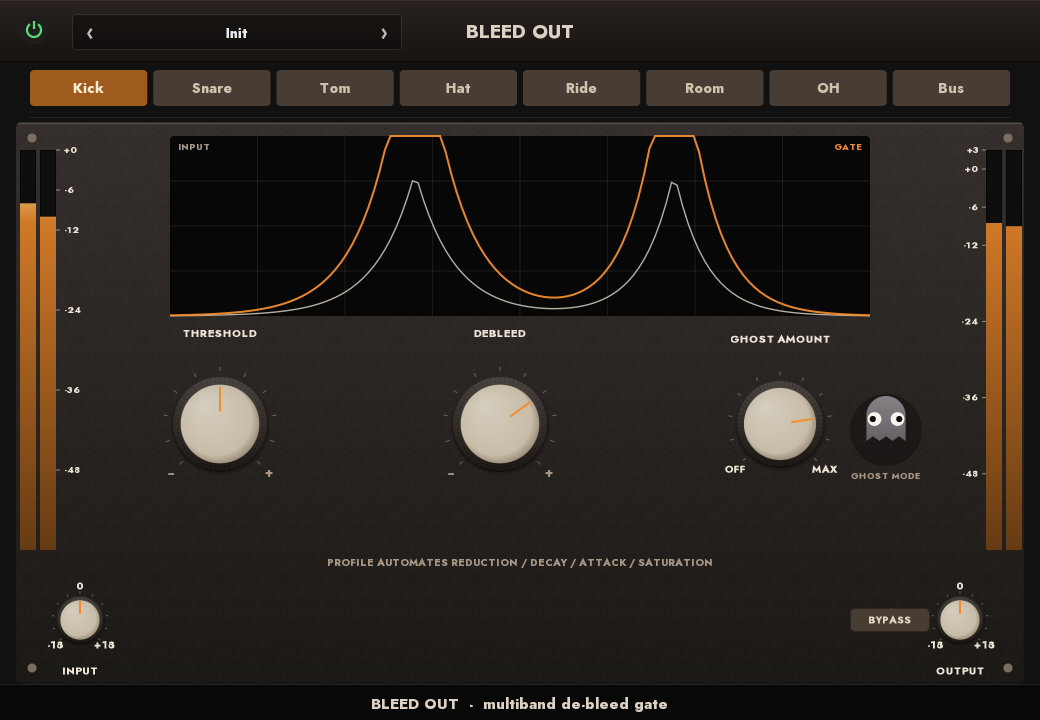
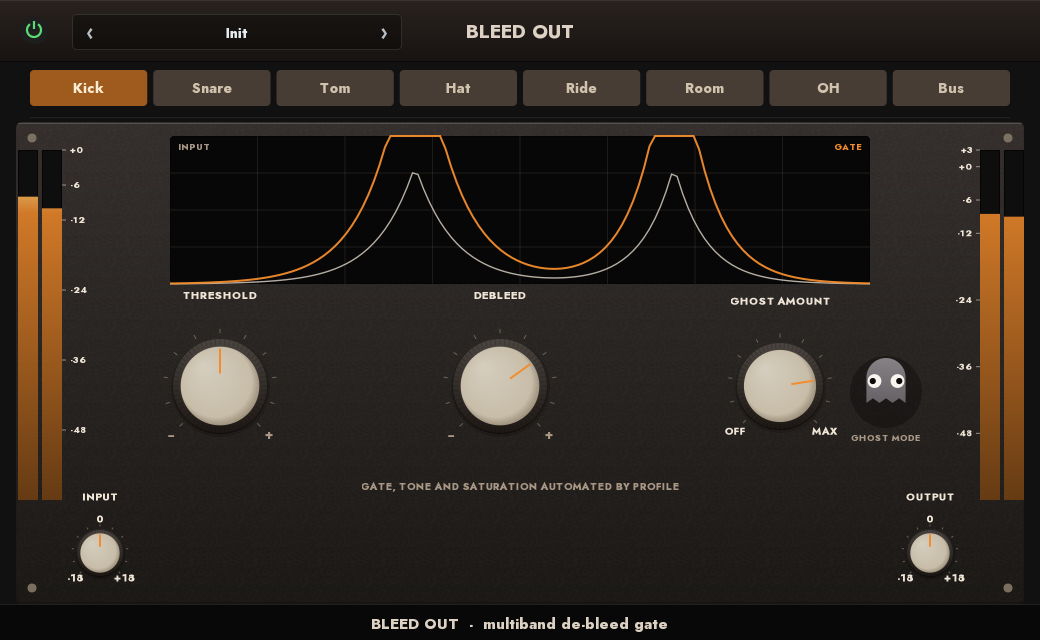
De-bleed during the hit, 1040x640 panel and wider meters

diff --git a/src/ui/panel.cpp b/src/ui/panel.cpp
@@ -262,40 +262,25 @@ void Panel::layout(const Shared& shared, const PanelState& state) {
     widgets_.push_back(k);
   };
 
-  auto pill = [&](uint32_t param, double x, double y, double w, double h,
-                  const char* label) {
-    Widget b{};
-    b.kind = Kind::Pill;
-    b.param = param;
-    b.x = x;
-    b.y = y;
-    b.w = w;
-    b.h = h;
-    b.value = 1.0;
-    b.label = label;
-    widgets_.push_back(b);
-  };
-
   // Only the three controls that matter: Threshold, DeBleed and Ghost.
-  knob(P_THRESHOLD, 220, 424, 48, "THRESHOLD");
-  knob(P_DEBLEED, 500, 424, 48, "DEBLEED");
-  knob(P_GHOST, 780, 424, 44, "GHOST AMOUNT", sc(kScaleGhost));
+  knob(P_THRESHOLD, 220, 386, 48, "THRESHOLD");
+  knob(P_DEBLEED, 500, 386, 48, "DEBLEED");
+  knob(P_GHOST, 780, 386, 44, "GHOST AMOUNT", sc(kScaleGhost));
   {
     Widget g{};
     g.kind = Kind::Ghost;
     g.param = P_GHOST_MODE;
     g.x = 850;
-    g.y = 394;
+    g.y = 356;
     g.w = 72;
     g.h = 72;
     g.label = "GHOST MODE";
     widgets_.push_back(g);
   }
 
-  // Global.
-  pill(P_BYPASS, 850, 608, 80, 24, "BYPASS");
-  knob(P_INPUT, 80, 620, 24, "INPUT", sc(kScaleDb18), true);
-  knob(P_OUTPUT, 960, 620, 24, "OUTPUT", sc(kScaleDb18), true);
+  // Global.  Power is the bypass; the bottom corners are just trim.
+  knob(P_INPUT, 100, 553, 24, "INPUT", sc(kScaleDb18));
+  knob(P_OUTPUT, 930, 553, 24, "OUTPUT", sc(kScaleDb18));
 }
 
 bool Panel::hitWidget(const Widget& w, double x, double y) const {
@@ -468,9 +453,9 @@ void Panel::draw(cairo_t* cr, Shared& shared, const PanelState& state) {
   drawHeader(cr, shared, state);
   drawBody(cr, drum);
   drawScope(cr, shared, state);
-  drawLevelMeter(cr, 20, 150, 16, 400, state.inLevelL, state.inLevelR, -60.0,
+  drawLevelMeter(cr, 18, 150, 20, 350, state.inLevelL, state.inLevelR, -60.0,
                  0.0, true);
-  drawLevelMeter(cr, 986, 150, 16, 400, state.outLevelL, state.outLevelR,
+  drawLevelMeter(cr, 980, 150, 20, 350, state.outLevelL, state.outLevelR,
                  -60.0, 3.0, false);
 
   for (const Widget& w : widgets_) {
@@ -484,7 +469,7 @@ void Panel::draw(cairo_t* cr, Shared& shared, const PanelState& state) {
     const std::string value =
         std::string(kParamSpecs[p].name) + "   " +
         formatParamValue(shared, p, shared.get(p));
-    text(cr, value.c_str(), kPanelWidth * 0.5, 709, 15, 1, 0.98, 0.80, 0.32);
+    text(cr, value.c_str(), kPanelWidth * 0.5, 629, 15, 1, 0.98, 0.80, 0.32);
   }
 
   if (editing_) drawTextEntry(cr, shared);
@@ -524,12 +509,12 @@ void Panel::drawHeader(cairo_t* cr, const Shared& shared,
 
 void Panel::drawBody(cairo_t* cr, int drum) const {
   const Skin skin = skinFor(drum);
-  cairo_pattern_t* pat = cairo_pattern_create_linear(0, 122, 0, 684);
+  cairo_pattern_t* pat = cairo_pattern_create_linear(0, 122, 0, 604);
   cairo_pattern_add_color_stop_rgb(pat, 0.0, skin.bodyTop.r, skin.bodyTop.g,
                                    skin.bodyTop.b);
   cairo_pattern_add_color_stop_rgb(pat, 1.0, skin.bodyBottom.r,
                                    skin.bodyBottom.g, skin.bodyBottom.b);
-  roundRect(cr, 16, 122, 1008, 562, 6);
+  roundRect(cr, 16, 122, 1008, 482, 6);
   cairo_set_source(cr, pat);
   cairo_fill(cr);
   cairo_pattern_destroy(pat);
@@ -538,7 +523,7 @@ void Panel::drawBody(cairo_t* cr, int drum) const {
     cairo_pattern_t* grain = cairo_pattern_create_for_surface(grain_);
     cairo_pattern_set_extend(grain, CAIRO_EXTEND_REPEAT);
     cairo_save(cr);
-    cairo_rectangle(cr, 17, 123, 1006, 560);
+    cairo_rectangle(cr, 17, 123, 1006, 480);
     cairo_clip(cr);
     cairo_set_source(cr, grain);
     cairo_paint_with_alpha(cr, 0.018);
@@ -552,12 +537,12 @@ void Panel::drawBody(cairo_t* cr, int drum) const {
   cairo_line_to(cr, 1022, 123.5);
   cairo_stroke(cr);
   setRgb(cr, {0.0, 0.0, 0.0}, 0.22);
-  cairo_move_to(cr, 18, 682.5);
-  cairo_line_to(cr, 1022, 682.5);
+  cairo_move_to(cr, 18, 602.5);
+  cairo_line_to(cr, 1022, 602.5);
   cairo_stroke(cr);
 
   for (double sx : {32.0, 1008.0}) {
-    for (double sy : {138.0, 668.0}) {
+    for (double sy : {138.0, 588.0}) {
       cairo_arc(cr, sx, sy, 4.5, 0, 2 * kPi);
       setRgb(cr, skin.screw, 0.9);
       cairo_fill(cr);
@@ -575,26 +560,26 @@ void Panel::drawBody(cairo_t* cr, int drum) const {
   cairo_stroke(cr);
 
   // Explain why there are only three knobs: the profile automates the rest.
-  text(cr, "PROFILE AUTOMATES REDUCTION / DECAY / ATTACK / SATURATION",
-       kPanelWidth * 0.5, 566, 10, 1, skin.legendDim.r, skin.legendDim.g,
+  text(cr, "GATE, TONE AND SATURATION AUTOMATED BY PROFILE",
+       kPanelWidth * 0.5, 490, 10, 1, skin.legendDim.r, skin.legendDim.g,
        skin.legendDim.b);
 
   // Footer.
   cairo_set_source_rgba(cr, 0.0, 0.0, 0.0, 0.55);
-  cairo_rectangle(cr, 0, 684, kPanelWidth, 36);
+  cairo_rectangle(cr, 0, 604, kPanelWidth, 36);
   cairo_fill(cr);
   cairo_set_source_rgba(cr, 1.0, 1.0, 1.0, 0.10);
-  cairo_move_to(cr, 0, 684.5);
-  cairo_line_to(cr, kPanelWidth, 684.5);
+  cairo_move_to(cr, 0, 604.5);
+  cairo_line_to(cr, kPanelWidth, 604.5);
   cairo_stroke(cr);
-  text(cr, skin.caption, kPanelWidth * 0.5, 709, 15, 1, 0.86, 0.82, 0.76);
+  text(cr, skin.caption, kPanelWidth * 0.5, 629, 15, 1, 0.86, 0.82, 0.76);
 }
 
 void Panel::drawScope(cairo_t* cr, const Shared& shared,
                       const PanelState& state) const {
   const int drum = static_cast<int>(shared.get(P_DRUM) + 0.5);
   const Skin skin = skinFor(drum);
-  const double x = 170, y = 136, w = 700, h = 180;
+  const double x = 170, y = 136, w = 700, h = 148;
 
   roundRect(cr, x, y, w, h, 4);
   cairo_set_source_rgba(cr, 0.025, 0.027, 0.030, 0.98);

diff --git a/src/dsp/bleedout.hpp b/src/dsp/bleedout.hpp
@@ -113,7 +113,8 @@ public:
     ghostHold_ = 0;
     midiGhostHold_ = 0;
     gateOpen_ = false;
-    bodyOpen_ = false;
+    bodyWasHot_ = false;
+    mainWasHot_ = false;
     envDet_ = 0.0f;
     for (int i = 0; i < 3; ++i) {
       bandFast_[i] = 0.0f;
@@ -185,17 +186,27 @@ public:
       gateEnv_ += (target ? (1.0f - gateEnv_) : (0.0f - gateEnv_)) *
                   (target ? attackCoef_ : releaseCoef_);
 
-      // Body gate for the high-band sidechain.  It deliberately uses its own
-      // short hold/release: the high band should follow the drum's attack and
-      // then close quickly instead of riding the main gate's long tail.
+      // De-bleed sidechain.  It is one-shot, not a level gate: each drum hit
+      // opens the high band for the attack, then the band closes again even
+      // while the body is still ringing.  That is what removes cymbal wash
+      // *during* the hit instead of only between hits.  The main gate edge is
+      // a backup trigger for bright drums whose body detector is weak.
+      if (det > threshold_ && !mainWasHot_) {
+        mainWasHot_ = true;
+        bodyHold_ = std::max(bodyHold_, hbHoldSamples_);
+      } else if (det < closeThreshold_) {
+        mainWasHot_ = false;
+      }
       if (bodyDet > bodyThreshold_) {
-        bodyOpen_ = true;
-        bodyHold_ = hbHoldSamples_;
+        if (!bodyWasHot_) {
+          bodyWasHot_ = true;
+          bodyHold_ = hbHoldSamples_;
+        }
       } else if (bodyDet < closeBodyThreshold_) {
-        bodyOpen_ = false;
+        bodyWasHot_ = false;
       }
       if (bodyHold_ > 0) --bodyHold_;
-      const bool bodyTarget = controls_.gateOn && (bodyOpen_ || bodyHold_ > 0);
+      const bool bodyTarget = controls_.gateOn && (bodyHold_ > 0);
       bodyEnv_ += (bodyTarget ? (1.0f - bodyEnv_) : (0.0f - bodyEnv_)) *
                   (bodyTarget ? hbAttackCoef_ : hbReleaseCoef_);
 
@@ -325,7 +336,8 @@ private:
   bool gateOpen_ = false;
   float gateEnv_ = 0.0f;
 
-  bool bodyOpen_ = false;
+  bool bodyWasHot_ = false;
+  bool mainWasHot_ = false;
   int bodyHold_ = 0;
   float bodyEnv_ = 0.0f;
 

diff --git a/test/test_dsp.cpp b/test/test_dsp.cpp
@@ -206,20 +206,29 @@ int main() {
 
     const int qa = static_cast<int>(kSr * 0.36f);
     const int qb = static_cast<int>(kSr * 0.56f);
+    const int aa = static_cast<int>(kSr * 0.100f);  // first 6 ms: the attack
+    const int ab = static_cast<int>(kSr * 0.106f);
+    const int sa = static_cast<int>(kSr * 0.125f);  // 25-55 ms: the sustain
+    const int sb = static_cast<int>(kSr * 0.155f);
     const int ha = static_cast<int>(kSr * 0.105f);
     const int hb = static_cast<int>(kSr * 0.145f);
     const double bleedOff = toneLevel(rOff.l, qa, qb, 8000.0);
     const double bleedOn = toneLevel(rOn.l, qa, qb, 8000.0);
     const double bodyOff = toneLevel(rOff.l, ha, hb, 200.0);
     const double bodyOn = toneLevel(rOn.l, ha, hb, 200.0);
-    const double attackOff = toneLevel(rOff.l, ha, hb, 8000.0);
-    const double attackOn = toneLevel(rOn.l, ha, hb, 8000.0);
+    const double attackOff = toneLevel(rOff.l, aa, ab, 8000.0);
+    const double attackOn = toneLevel(rOn.l, aa, ab, 8000.0);
+    const double sustainOff = toneLevel(rOff.l, sa, sb, 8000.0);
+    const double sustainOn = toneLevel(rOn.l, sa, sb, 8000.0);
     std::printf(
-        "  debleed: bleed %.1f -> %.1f dB, body %.1f -> %.1f dB, attack %.1f -> %.1f dB\n",
+        "  debleed: bleed %.1f -> %.1f dB, body %.1f -> %.1f dB, "
+        "attack %.1f -> %.1f dB, sustain %.1f -> %.1f dB\n",
         db(bleedOff), db(bleedOn), db(bodyOff), db(bodyOn), db(attackOff),
-        db(attackOn));
+        db(attackOn), db(sustainOff), db(sustainOn));
     check(db(bleedOff) - db(bleedOn) > 20.0,
           "DeBleed 100 cuts cymbal bleed by more than 20 dB between hits");
+    check(db(sustainOff) - db(sustainOn) > 8.0,
+          "DeBleed removes cymbal wash during the hit after the attack");
     check(std::fabs(db(bodyOff) - db(bodyOn)) < 1.0,
           "DeBleed leaves the drum body untouched");
     check(std::fabs(db(attackOff) - db(attackOn)) < 1.5,

diff --git a/test/test_geometry.cpp b/test/test_geometry.cpp
@@ -40,17 +40,17 @@ int main() {
     const double scale = static_cast<double>(s.width) / kPanelWidth;
     bounded = bounded && scale >= kMinUiScale - 1e-9 && scale <= kMaxUiScale + 1e-9;
   }
-  check(allAspect, "any requested size snaps to exactly 1040:720");
+  check(allAspect, "any requested size snaps to exactly 1040:640");
   check(idempotent, "snapping a valid size changes nothing");
   check(bounded, "snapped scale stays within the allowed range");
 
-  check(snapSize(100, 100).width == 520 && snapSize(100, 100).height == 360,
+  check(snapSize(100, 100).width == 520 && snapSize(100, 100).height == 320,
         "tiny request clamps to the minimum (0.5x)");
-  check(snapSize(9000, 9000).width == 2600 && snapSize(9000, 9000).height == 1800,
+  check(snapSize(9000, 9000).width == 2600 && snapSize(9000, 9000).height == 1600,
         "huge request clamps to the maximum (2.5x)");
-  check(snapSize(1560, 900).width == 1560 && snapSize(1560, 900).height == 1080,
+  check(snapSize(1560, 900).width == 1560 && snapSize(1560, 900).height == 960,
         "width drag wins over a mismatched height");
-  check(snapSize(1040, 720).width == 1040 && snapSize(1040, 720).height == 720,
+  check(snapSize(1040, 640).width == 1040 && snapSize(1040, 640).height == 640,
         "nominal size is unchanged");
 
   std::printf("%d failure(s)\n", gFailures);

diff --git a/src/dsp/controls.hpp b/src/dsp/controls.hpp
@@ -42,8 +42,8 @@ inline constexpr Profile kProfiles[8] = {
     {"Kick", 180.0f, 2000.0f, 0.80f, 0.15f, 0.05f, -30.0f, 70.0f,
      8.0f, 30.0f, 60.0f, 0.5f, 5.0f, 80.0f, 6.0f, 1.0f, -1.0f, 0.0f,
      10.0f, 0.0f, 0.0f, 20.0f},
-    {"Snare", 300.0f, 4000.0f, 0.25f, 0.60f, 0.15f, -32.0f, 80.0f,
-     10.0f, 35.0f, 65.0f, 0.8f, 12.0f, 110.0f, 6.0f, -0.5f, 1.0f, 0.5f,
+    {"Snare", 300.0f, 5000.0f, 0.25f, 0.60f, 0.15f, -32.0f, 80.0f,
+     4.0f, 16.0f, 65.0f, 0.8f, 12.0f, 110.0f, 6.0f, -0.5f, 1.0f, 0.5f,
      0.0f, 10.0f, 0.0f, 25.0f},
     {"Tom", 350.0f, 3000.0f, 0.60f, 0.30f, 0.10f, -32.0f, 60.0f,
      10.0f, 35.0f, 45.0f, 1.0f, 15.0f, 160.0f, 8.0f, 1.0f, 0.0f, 0.0f,

diff --git a/src/ui/geometry.hpp b/src/ui/geometry.hpp
@@ -12,7 +12,7 @@ namespace bleed {
 
 // The editor is laid out once in logical units (kPanelWidth x kPanelHeight)
 // and scaled uniformly.  Scales move in steps of 1/80, because 1040 = 13 * 80
-// and 720 = 9 * 80: every step gives an exact 1040:720 window, with no rounding
+// and 640 = 8 * 80: every step gives an exact 1040:640 window, with no rounding
 // drift between width and height.
 constexpr int kScaleSteps = 80;
 constexpr int kMinScaleStep = 40;   // 0.5x

diff --git a/test/test_layout.cpp b/test/test_layout.cpp
@@ -20,7 +20,7 @@ void check(bool ok, const char* what) {
 constexpr double kPlateX = 16.0;
 constexpr double kPlateY = 122.0;
 constexpr double kPlateW = 1008.0;
-constexpr double kPlateH = 562.0;
+constexpr double kPlateH = 482.0;
 
 bool overlaps(const Panel::WidgetRect& a, const Panel::WidgetRect& b) {
   const double ax2 = a.x + a.w, ay2 = a.y + a.h;

diff --git a/test/test_panel.cpp b/test/test_panel.cpp
@@ -44,7 +44,7 @@ int main() {
           "Snare profile applies its DeBleed default");
 
     // Ghost icon toggles ghost mode.
-    panel.pointerDown(shared, state, 886, 430, false);
+    panel.pointerDown(shared, state, 886, 392, false);
     panel.pointerUp();
     check(shared.get(P_GHOST_MODE) == 1.0, "ghost icon enables ghost mode");
 

diff --git a/src/ui/panel.hpp b/src/ui/panel.hpp
@@ -12,7 +12,7 @@
 namespace bleed {
 
 constexpr int kPanelWidth = 1040;
-constexpr int kPanelHeight = 720;
+constexpr int kPanelHeight = 640;
 
 struct PanelState {
   int presetIndex = -1;

diff --git a/README.md b/README.md
@@ -42,24 +42,27 @@ The high band (cymbals, hi-hat, snare wires) is gated **from the drum body**,
 not from the cymbal wash itself. This is the same idea as the Nolly/FabFilter
 Saturn trick and the Black Salt Audio Silencer de-bleeding circuit: the low/mid
 body detector opens the high band for the attack, then the high band closes
-quickly while the body has decayed. DeBleed sets how far down that high band goes
-between hits.
+again **even while the body is still ringing**. DeBleed sets how far down that
+high band goes.
 
-The de-bleed sidechain has its own short hold/release (10/35 ms on Snare), so it
-does not ride the main gate's long tail. At DeBleed 100 the high band is 48 dB
-down between hits; at DeBleed 0 it is untouched.
+The de-bleed sidechain is one-shot, with its own short hold/release (4/16 ms on
+Snare), so it does not ride the main gate's long tail. At DeBleed 100 the high
+band is 48 dB down once the attack window closes; at DeBleed 0 it is untouched.
+The Snare crossover sits at 5 kHz, so the 2–5 kHz presence stays in the mid band
+while the hat/cymbal top gets removed.
 
-Measured on a synthetic snare (200 Hz body, continuous 8 kHz bleed), DeBleed
-0 → 100:
+Measured on a synthetic snare (200 Hz body, 4 kHz presence, continuous 8 kHz
+bleed), DeBleed 0 → 100:
 
 | Signal | DeBleed 0 | DeBleed 100 |
 |---|---:|---:|
-| Bleed between hits | −30.8 dB | −67.3 dB |
+| Bleed between hits | −31.3 dB | −65.5 dB |
+| Bleed during the hit, after the attack | −30.4 dB | −43.3 dB |
 | Snare body at the hit | −11.0 dB | −11.0 dB |
-| High-frequency attack at the hit | −30.4 dB | −30.4 dB |
+| High-frequency attack | −30.6 dB | −31.3 dB |
 
-That is a 36 dB cut in bleed with the body and attack unchanged. The test is
-part of `bleed_dsp`.
+That is a 34 dB cut in bleed between hits, 13 dB during the hit, and the body
+and attack are unchanged. The test is part of `bleed_dsp`.
 
 ## Drum profiles
 

diff --git a/CHANGELOG.md b/CHANGELOG.md
@@ -2,14 +2,15 @@
 
 ## 0.1.0 — 2026-11-17
 
-- First working Bleed Out prototype: CLAP + LV2, 1040×720 Comp Suite-style
-  panel.
+- First working Bleed Out prototype: CLAP + LV2, 1040×640 Comp Suite-style
+  panel, widened meters and a compact three-knob layout.
 - Drum selector: Kick, Snare, Tom, Hat, Ride, Room, OH, Bus.
 - Three-knob workflow: Threshold, DeBleed and Ghost. Reduction, decay, attack,
   hold, hysteresis, EQ and saturation are automated by the drum profile.
-- De-bleed sidechain gates the high band from the drum body with its own fast
-  hold/release. Measured 36 dB bleed cut between hits with body and attack
-  unchanged.
+- De-bleed sidechain gates the high band from the drum body with its own
+  one-shot hold/release, so it closes during the hit as well as between hits.
+  Measured 34 dB bleed cut between hits and 13 dB during the hit after the
+  attack, with body and attack unchanged.
 - Ghost-note mode with a Pac-Man-style ghost icon, automatable Ghost amount,
   MIDI CC control and MIDI note-triggered ghost windows. Ghost mode opens the
   de-bleed high band so ghost notes keep their top end.
